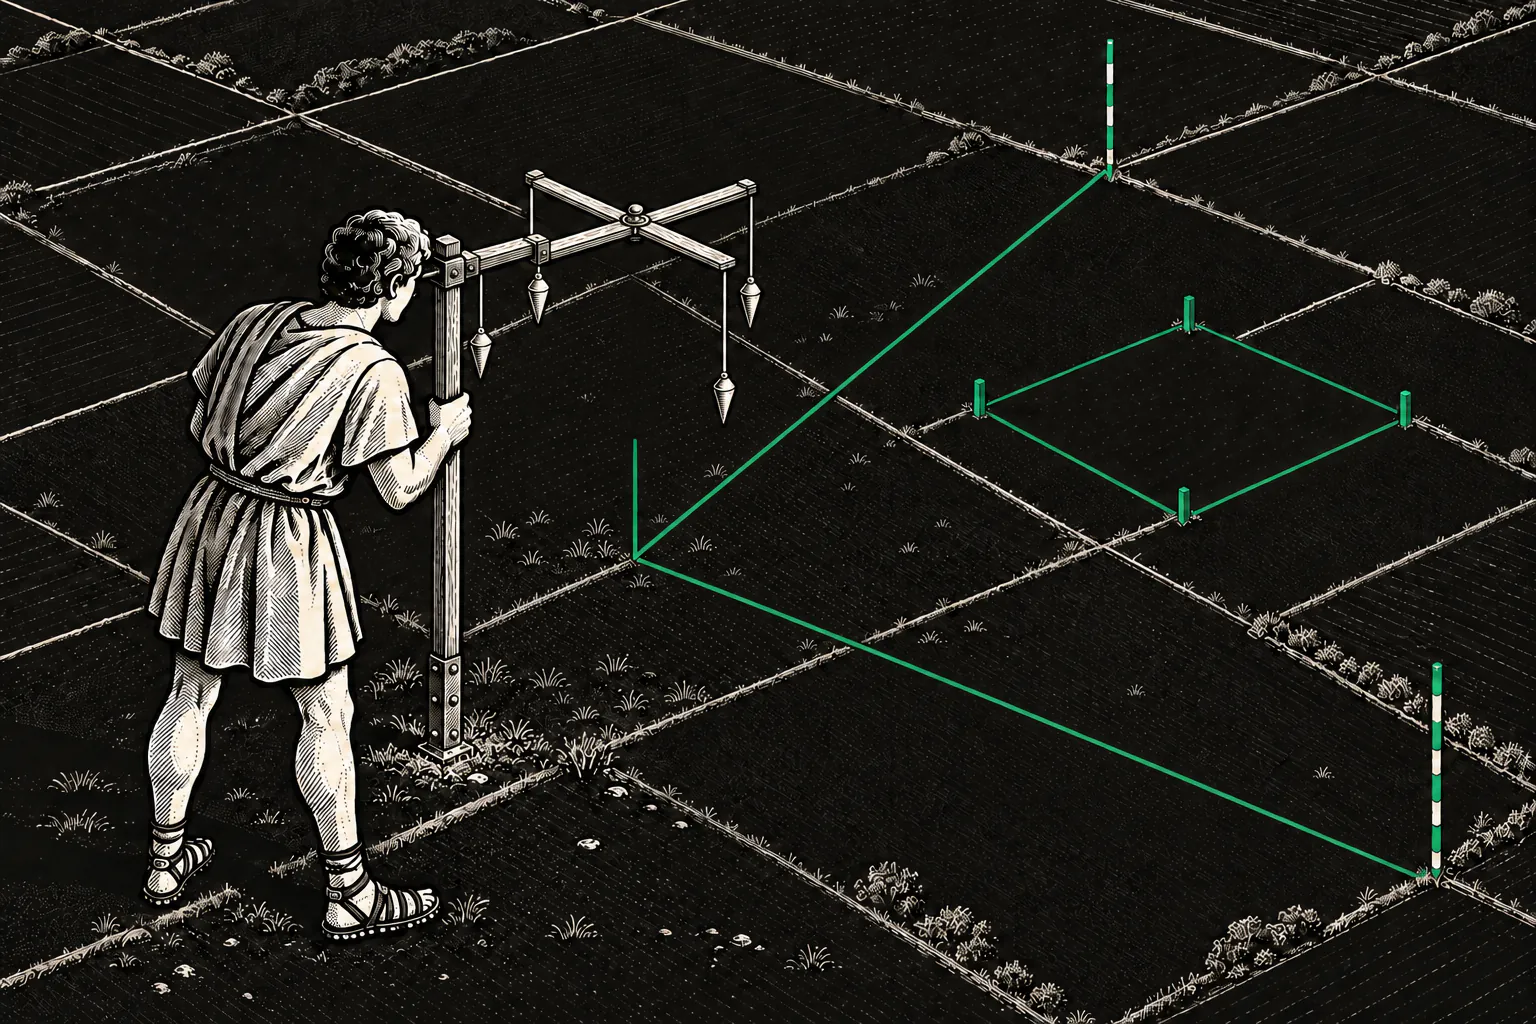
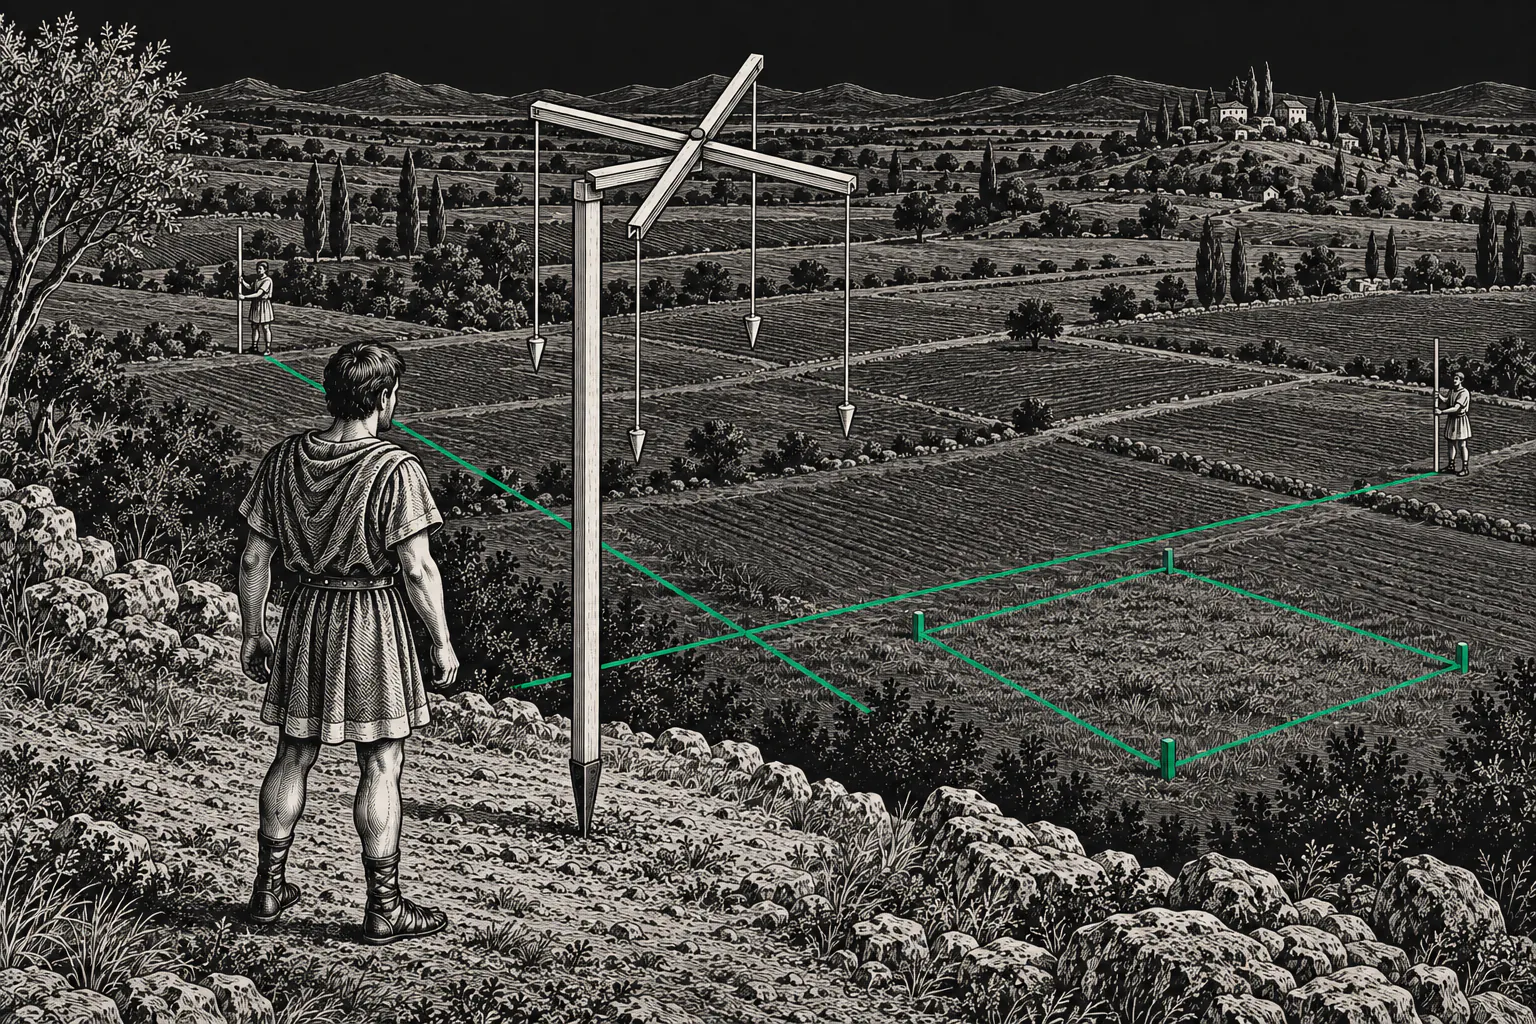
docs: redraw What is a groma? images with an accurate groma

diff --git a/docs/what-is-a-groma.md b/docs/what-is-a-groma.md
@@ -11,7 +11,7 @@ A groma is the instrument Roman surveyors used to mark straight lines and right 
 
 <picture>
   <source media="(prefers-color-scheme: dark)" srcset="../.github/assets/what-is-a-groma/instrument-dark.webp">
-  <img src="../.github/assets/what-is-a-groma/instrument-light.webp" alt="A surveyor sights past the plumb lines of a groma. Two green sight lines leave it at a right angle, and a square plot is staked out in green." width="100%">
+  <img src="../.github/assets/what-is-a-groma/instrument-light.webp" alt="A surveyor stands at a groma. Two green sight lines cross at a right angle beneath it and run to ranging poles, and a square plot is staked out in green." width="100%">
 </picture>
 
 A groma is a tall staff with a flat cross on top that can turn. A plumb line with a weight hangs from the end of each of the four arms.
@@ -26,7 +26,7 @@ Roman land surveyors were called gromatici, after the instrument. They laid out 
 
 <picture>
   <source media="(prefers-color-scheme: dark)" srcset="../.github/assets/what-is-a-groma/map-dark.webp">
-  <img src="../.github/assets/what-is-a-groma/map-light.webp" alt="A surveyor with a groma stands at the edge of an isometric architecture map. A green line runs along the grid to one building." width="100%">
+  <img src="../.github/assets/what-is-a-groma/map-light.webp" alt="A surveyor with a groma stands at the edge of an isometric architecture map. A straight green line runs from the foot of the groma to one building." width="100%">
 </picture>
 
 A groma turned a plan into lines on the ground that builders could follow. Groma does the same for software: it keeps a project's architecture as a map that people and coding agents read and follow while they change the code. Drafts stay dashed until a scan finds their code and you accept them, like a camp staked out before its tents go up.
